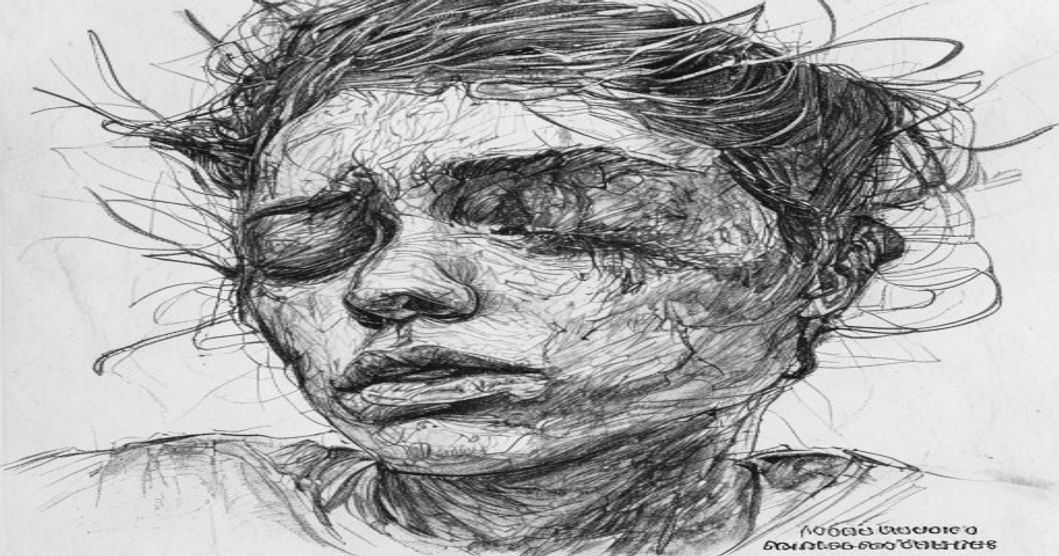
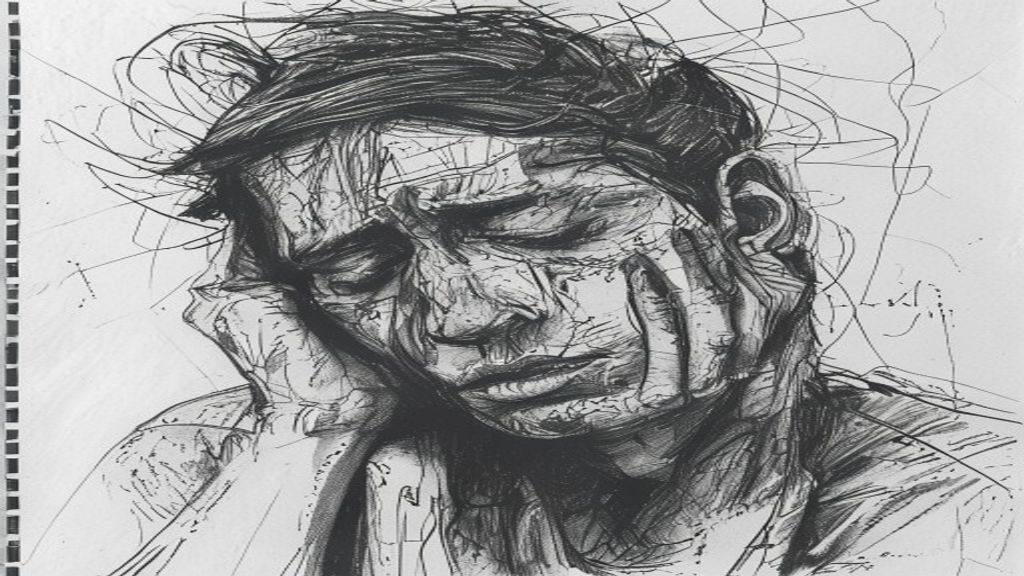
update

diff --git a/scripts/process_and_publish_posts.py b/scripts/process_and_publish_posts.py
@@ -146,8 +146,8 @@ def parse_args() -> argparse.Namespace:
     parser.add_argument(
         "--image-style",
         choices=["photo", "sketch"],
-        default="photo",
-        help="Image style: 'photo' uses Unsplash (default), 'sketch' uses Pollinations.AI pencil-drawing style",
+        default="sketch",
+        help="Image style: 'sketch' uses Pollinations.AI pencil-drawing style (default), 'photo' uses Unsplash",
     )
     parser.add_argument(
         "--pollinations-model",
@@ -467,7 +467,7 @@ def fetch_pollinations_image(
     encoded = urllib.parse.quote(prompt_text)
     url = (
         f"https://image.pollinations.ai/prompt/{encoded}"
-        f"?width=1200&height=630&model={model}&nologo=true&seed=42"
+        f"?width=1200&height=675&model={model}&nologo=true&seed=42"
     )
     print(f"[image] Generating sketch via Pollinations.AI (model={model})…")
     try:

diff --git a/_posts/2026-05-05-burnout-isnt-something-you-get-over-its-something-you-recover-from.md b/_posts/2026-05-05-burnout-isnt-something-you-get-over-its-something-you-recover-from.md
@@ -5,6 +5,7 @@ title: "Burnout Isn't Something You \"Get Over\"—It's Something You Recover Fr
 date: 2026-05-05
 image: /assets/images/posts/2026-05-05-burnout-isnt-something-you-get-over-its-something-you-recover-from.jpg
 image_credit: "AI-generated illustration via [Pollinations.AI](https://pollinations.ai)"
+image_credit: "AI-generated illustration via [Pollinations.AI](https://pollinations.ai)"
 ---
 # Burnout Isn't Something You "Get Over"—It's Something You Recover From
 
